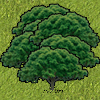
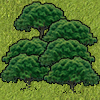
Improved forests
Images contain lots of smaller trees rather than one or two big ones,
forests sometimes form in clumps, which are less dense on the outside
than the inside.

diff --git a/static/js/game/map.js b/static/js/game/map.js
@@ -2,25 +2,25 @@
 /**
  *  It generates and returns a random map for the world
  *
+ * @param (string) The size of the map (small, medium, large)
  * @returns (string) The map for the world
  * @author Joe
  *
  */
 
-function generateGeneralMap(){
+function generateGeneralMap(size){
 	// Variables which control properties of the world being generated:
-	// How often do oceans appear?
+	// How often do things appear?
 	var OCEAN_SEED = Math.floor((Math.random() * 9) + 1)/100; // 0.01 ---> 0.09
-	// How big are they?
-	var OCEAN_EXPAND = Math.floor((Math.random() * 9) + 3)/100; // 0.03 --> 0.09
-	// How often do rocks appear?
 	var ROCK_SEED = 0.01;
-  // How often do trees appear?
-  var TREE_SEED = 0.1;
+	var FOREST_SEED = 0.1;
+	// What's the likelihood that they'll spread?
+	var OCEAN_EXPAND = Math.floor((Math.random() * 9) + 3)/100; // 0.03 --> 0.09
+	var FOREST_EXPAND = Math.floor((Math.random() * 9) + 5)/100; // 0.05 --> 0.09
   // Calculating probabilities:
   var p_ocean = 1 - OCEAN_SEED;
   var p_rock = p_ocean - ROCK_SEED;
-  var p_tree = p_rock - TREE_SEED;
+  var p_forest = p_rock - FOREST_SEED;
 
 	var x = 0;
 	var y = 0;
@@ -43,8 +43,8 @@ function generateGeneralMap(){
         imgArray[y][x] = "o";
       } else if (r > p_rock) {
         imgArray[y][x] = "m".concat(Math.round(10*(r - p_rock)));
-      } else if (r > p_tree) {
-        imgArray[y][x] = "t".concat(Math.round(10*(r - p_tree)));
+      } else if (r > p_forest) {
+        imgArray[y][x] = "t".concat(Math.round(10*(r - p_forest)));
       } else {
         imgArray[y][x] = "g";
       }
@@ -60,24 +60,45 @@ function generateGeneralMap(){
 	while (y < 7) {
 		while (x < 7) {
 			if (imgArray[y][x] === "o") {
-				if (Math.random() < OCEAN_EXPAND) {
-					if (x > 0) {
+				if (x > 0) {
+					if (Math.random() < OCEAN_EXPAND) {
 						imgArray[y][x - 1] = "o";
 					}
 				}
-				if (Math.random() < OCEAN_EXPAND) {
-					if (x < 6) {
+				if (x < 6) {
+						if (Math.random() < OCEAN_EXPAND) {
 						imgArray[y][x + 1] = "o";
 					}
 				}
-				if (Math.random() < OCEAN_EXPAND) {
-					if (y > 0) {
+				if (y > 0) {
+					if (Math.random() < OCEAN_EXPAND) {
 						imgArray[y - 1][x] = "o";
 					}
 				}
-				if (Math.random() < OCEAN_EXPAND) {
-					if (y < 6) {
+				if (y < 6) {
+					if (Math.random() < OCEAN_EXPAND) {
 						imgArray[y + 1][x] = "o";
+					}
+				}
+			} else if (imgArray[y][x] === "t0") {
+				if (x > 0) {
+					if (Math.random() < FOREST_EXPAND) {
+						imgArray[y][x - 1] = "t1";
+					}
+				}
+				if (x < 6) {
+					if (Math.random() < FOREST_EXPAND) {
+						imgArray[y][x + 1] = "t1";
+					}
+				}
+				if (y > 0) {
+						if (Math.random() < FOREST_EXPAND) {
+						imgArray[y - 1][x] = "t1";
+					}
+				}
+				if (y < 6) {
+					if (Math.random() < FOREST_EXPAND) {
+						imgArray[y + 1][x] = "t1";
 					}
 				}
 			}
@@ -129,13 +150,13 @@ function generateGeneralMap(){
 					imgArray[y][x] = "o";
 					x = 0;
 					y = 0;
-				} else if (n && (w || sw) || (w && ne)) {
+				} else if ((n && (w || sw)) || (w && ne)) {
 					imgArray[y][x] = "ob-nw";
-				} else if (n && (e || se) || (e && nw)) {
+				} else if ((n && (e || se)) || (e && nw)) {
 					imgArray[y][x] = "ob-ne";
-				} else if (s && (w || nw) || (w && se)) {
+				} else if ((s && (w || nw)) || (w && se)) {
 					imgArray[y][x] = "ob-sw";
-				} else if (s && (e || ne) || (e && sw)) {
+				} else if ((s && (e || ne)) || (e && sw)) {
 					imgArray[y][x] = "ob-se";
 				} else if (n) {
 					imgArray[y][x] = "o-n";
